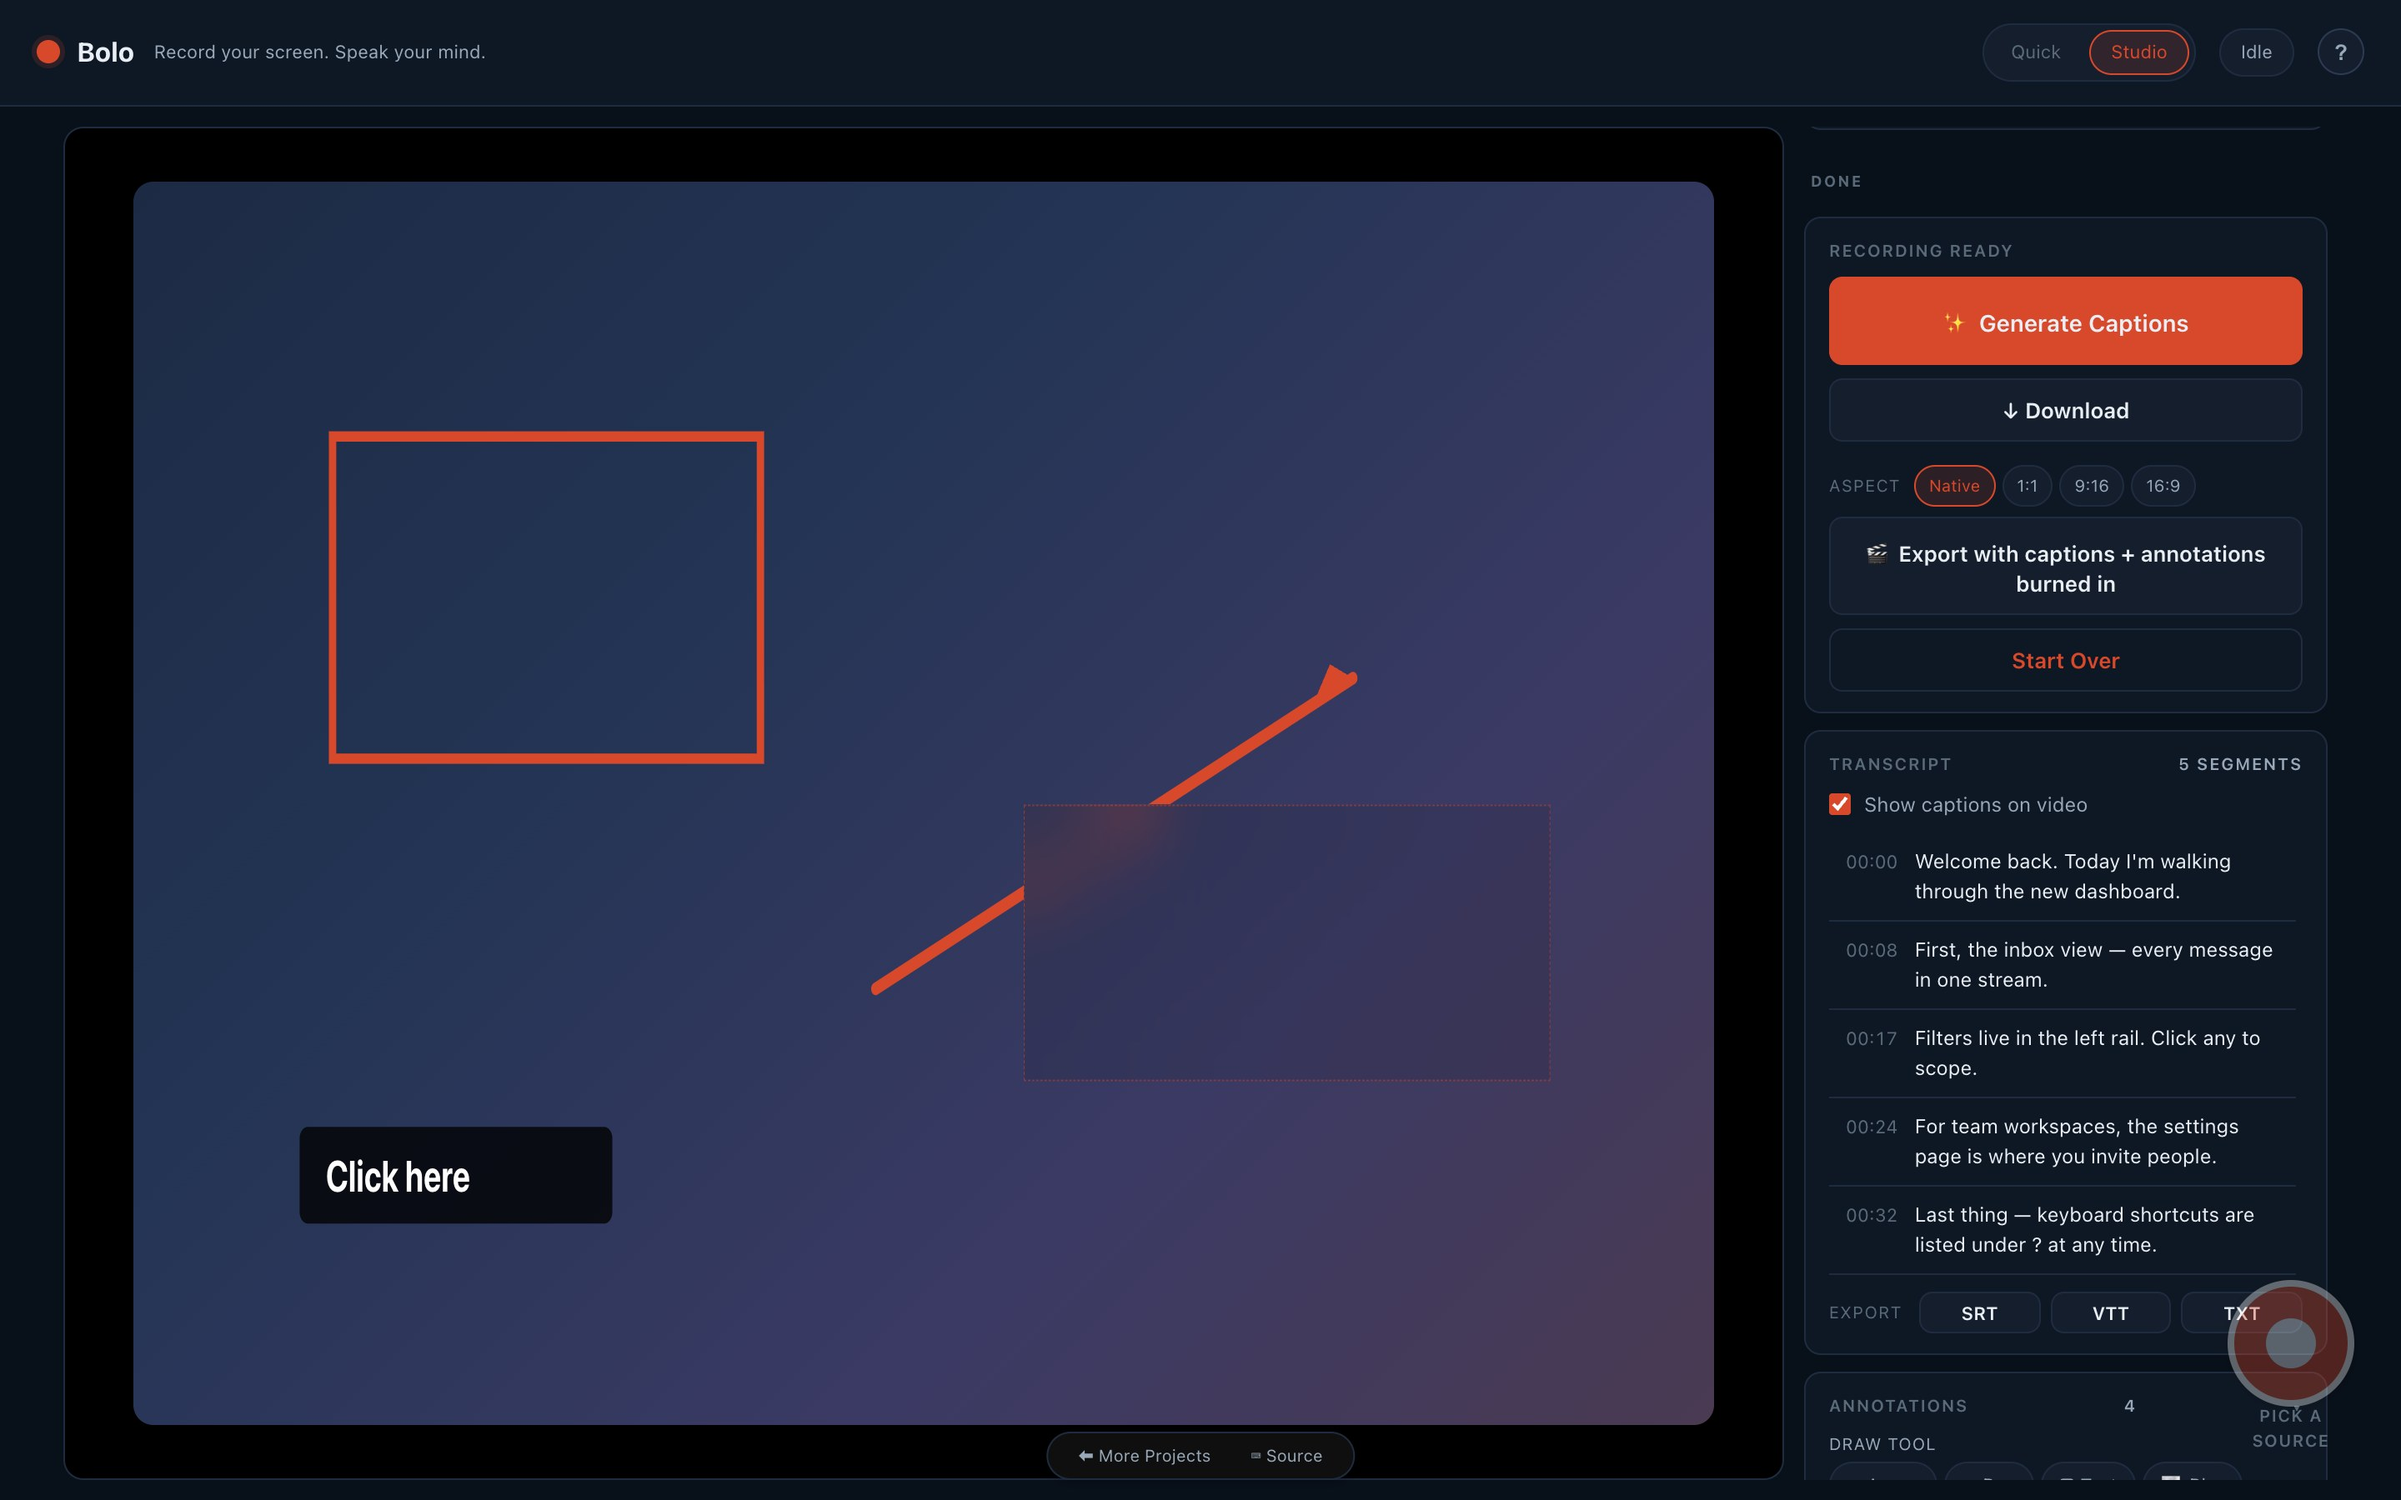
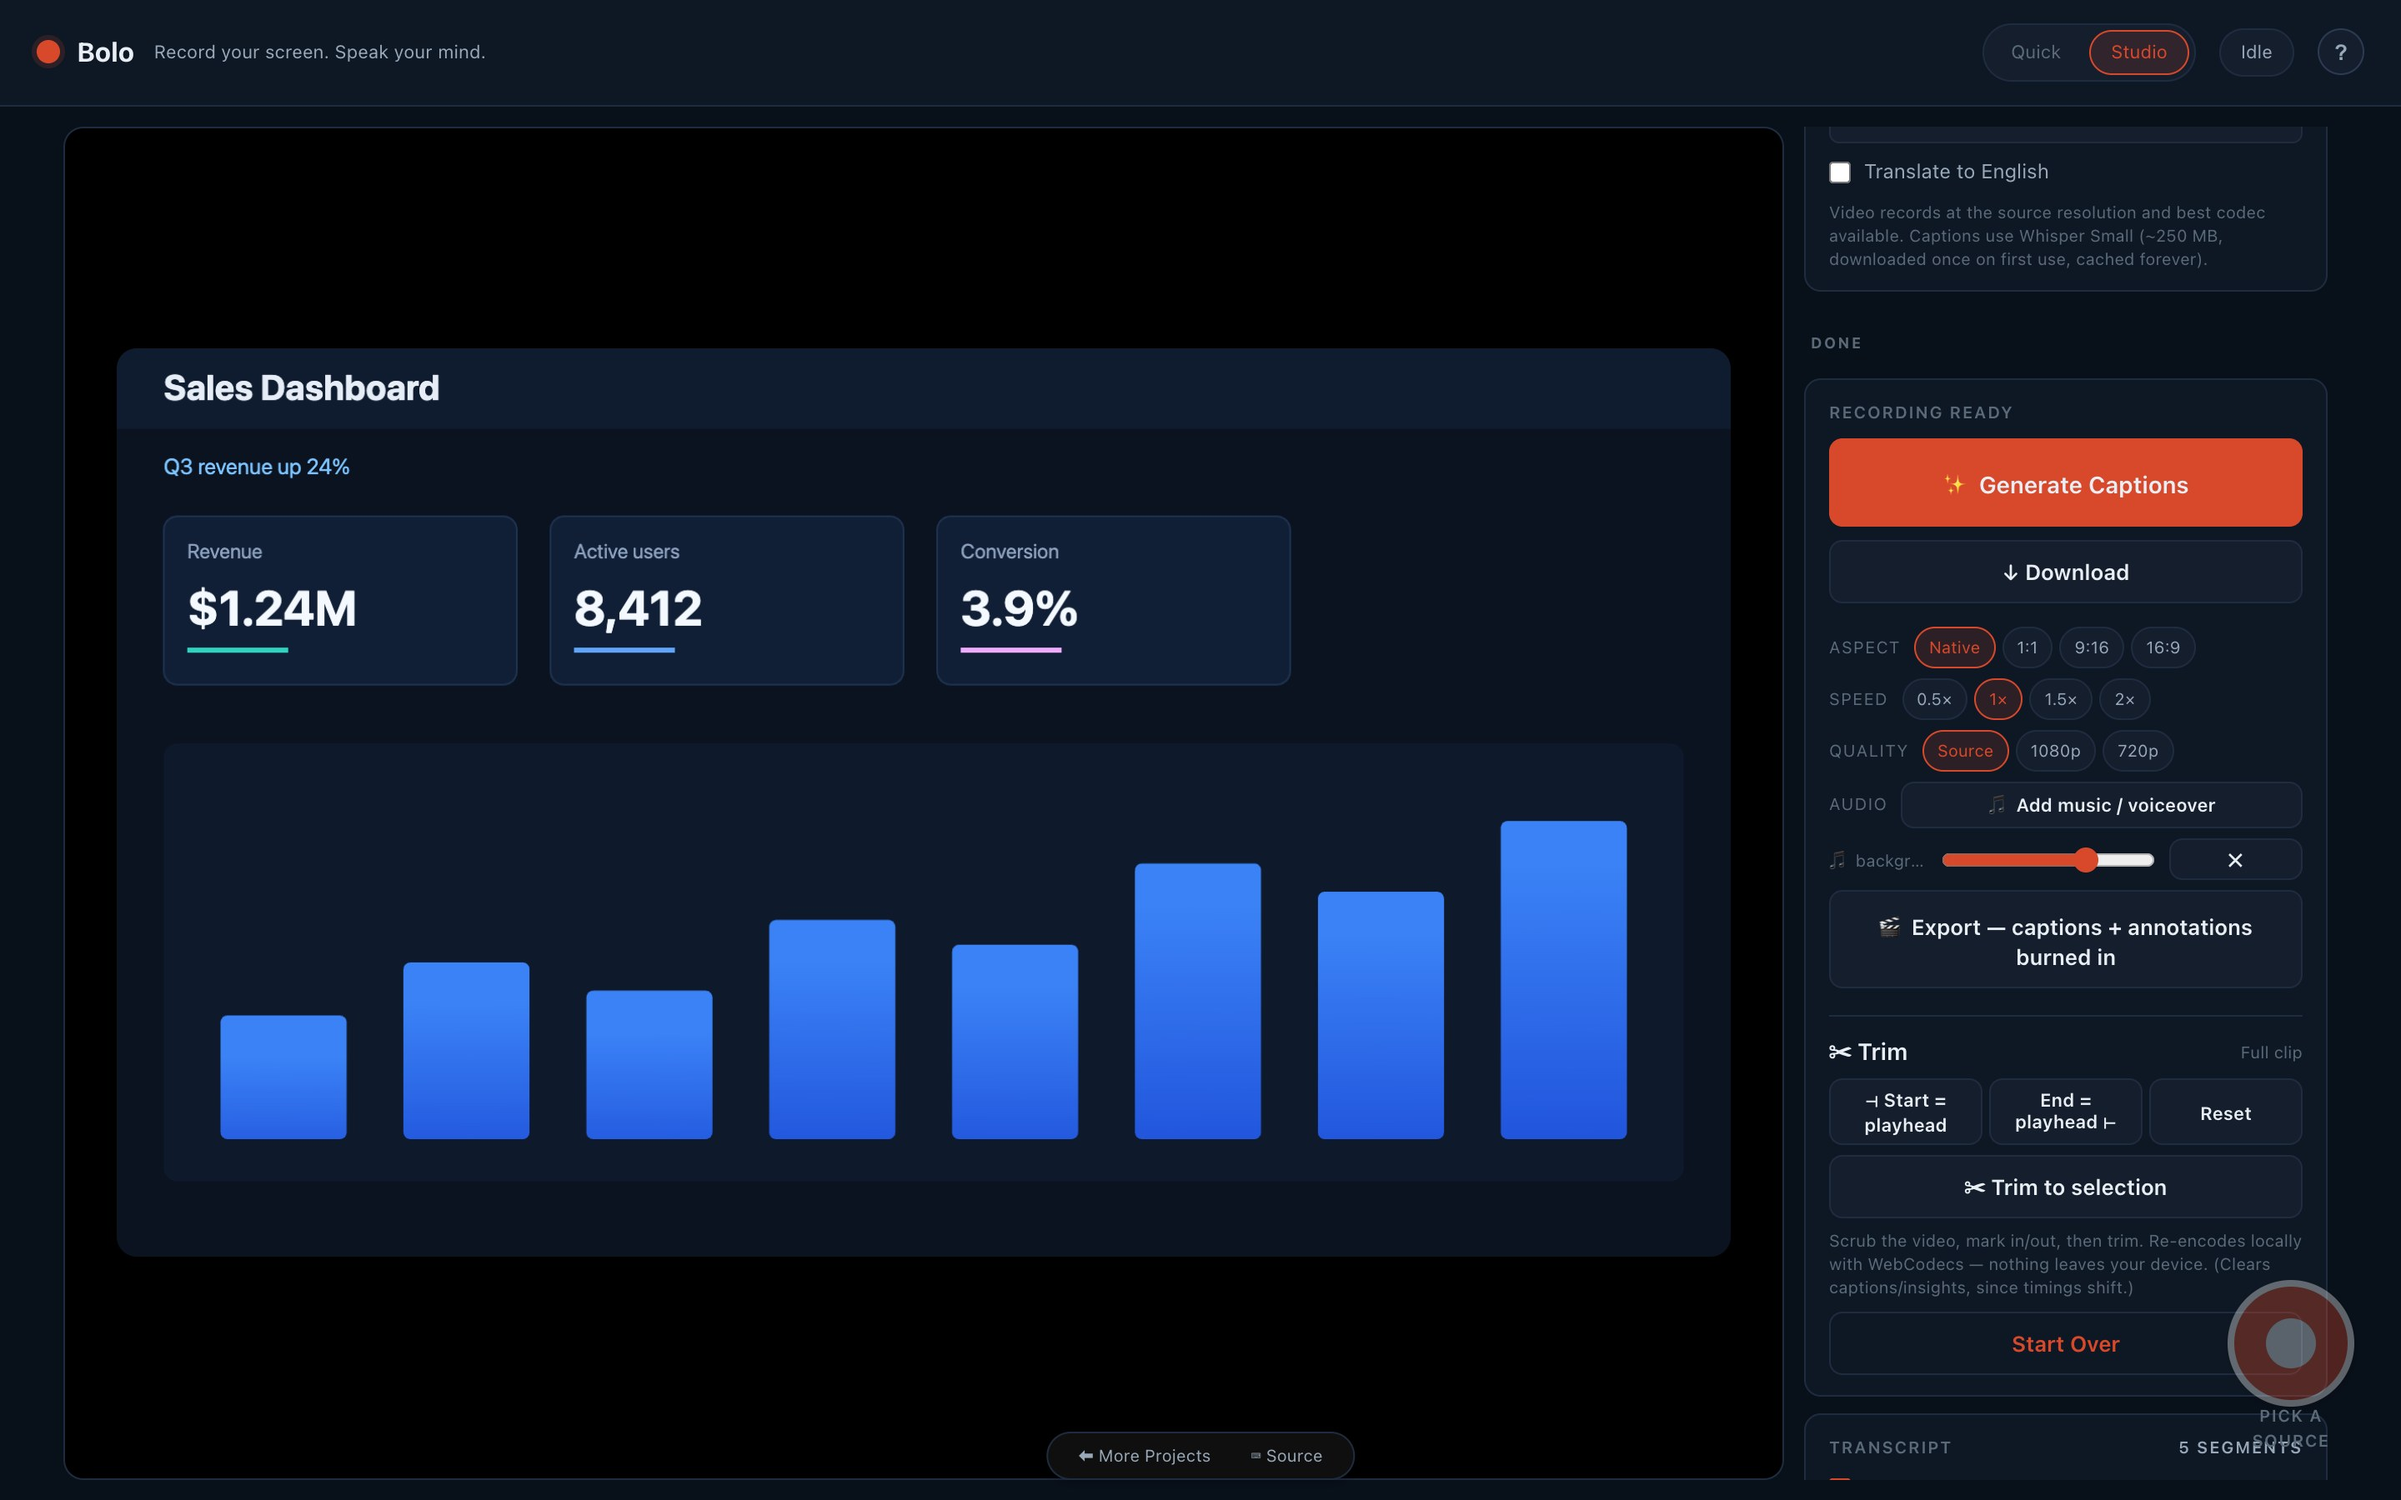
Add first-run guided tour + refresh export screenshot
- Guided tour: a spotlight walkthrough (ported from Slate's pattern) over
  the sources panel, Quick/Studio toggle, record button and help. Auto-shows
  once (localStorage bolo.v1.tour-complete), skippable, and replayable from
  the ? help modal via a new "Take the tour" button. Steps that aren't
  visible (Studio-only panels in Quick mode) are filtered out.
- Regenerated docs/screenshots/08-burn-in-export.jpg to show the new export
  panel (aspect + speed + quality + background audio) and updated the capture
  generator's step 8 to match.
- README + guide: document the tour and the new export controls.

Verified in-browser: tour auto-shows on first run (4 visible steps in Quick
mode), spotlight repositions per step, Finish sets the flag and it does not
re-show on reload, and ? -> Take the tour force-replays it. No console errors.

diff --git a/index.html b/index.html
@@ -934,6 +934,39 @@
   .stage-label:first-child { margin-top: 0; }
 
   .hidden { display: none !important; }
+
+  /* First-run guided tour — spotlight + step card (ported from Slate) */
+  .tour-layer { position: fixed; inset: 0; z-index: 4000; pointer-events: auto; }
+  .tour-spotlight {
+    position: fixed; z-index: 4001;
+    border: 2px solid var(--accent);
+    border-radius: 10px;
+    box-shadow: 0 0 0 4px var(--accent-dim), 0 0 0 9999px rgba(0,0,0,0.72);
+    pointer-events: none;
+    transition: top .28s ease, left .28s ease, width .28s ease, height .28s ease;
+  }
+  .tour-card {
+    position: fixed; z-index: 4002;
+    width: min(340px, calc(100vw - 24px));
+    padding: 20px;
+    border: 1px solid var(--border-2);
+    border-radius: 14px;
+    background: var(--bg-2);
+    color: var(--text);
+    box-shadow: 0 20px 48px rgba(0,0,0,0.6);
+  }
+  .tour-progress {
+    margin: 0 0 8px; color: var(--accent);
+    font-size: 11px; font-weight: 700; letter-spacing: 0.06em; text-transform: uppercase;
+  }
+  .tour-card h2 { margin: 0 0 8px; font-size: 17px; }
+  .tour-card p { margin: 0; color: var(--text-dim); font-size: 13px; line-height: 1.6; }
+  .tour-actions { display: flex; align-items: center; gap: 8px; margin-top: 18px; }
+  .tour-skip { margin-right: auto; }
+  @media (max-width: 520px) {
+    .tour-card { padding: 14px; }
+    .tour-actions { flex-wrap: wrap; }
+  }
 </style>
 </head>
 <body>
@@ -1282,6 +1315,7 @@
 
     <div class="btn-row">
       <span style="margin-right:auto; font-size:11px; color:var(--text-mute)">Bolo v1.1.0 · single HTML file</span>
+      <button class="btn" id="helpTour">Take the tour</button>
       <button class="btn btn-primary" id="helpClose">Got it</button>
     </div>
   </div>
@@ -4800,6 +4834,132 @@ opfsLoadAll().then(items => {
     renderHistory();
   }
 }).catch(() => {});
+
+// ---------- First-run guided tour (spotlight + step card) ----------
+const tour = (() => {
+  const TOUR_KEY = 'bolo.v1.tour-complete';
+  const STEPS = [
+    { target: '#panelSources', title: 'Pick what to capture',
+      body: 'Toggle Screen, Webcam and Mic here. Whatever you pick is composited live in this browser — nothing is uploaded, no account, no server.' },
+    { target: '#modeChips', title: 'Quick or Studio',
+      body: 'Quick is a minimal recorder. Switch to Studio for Looks, follow-cursor zoom, a dynamic webcam bubble, on-device captions & AI insights, annotations, and export with aspect / speed / quality / background audio.' },
+    { target: '#panelLook', title: 'Frame it',
+      body: 'Studio Looks add a background, padding and a gentle follow-cursor zoom — previewed live on the stage before you ever hit Record.' },
+    { target: '#fabRecord', title: 'Record',
+      body: 'A 3-2-1 countdown, then capture begins. Pause and stop from the floating bar — or from a tiny always-on-top window when you record another tab.' },
+    { target: '#helpBtn', title: 'Everything is here',
+      body: 'Reopen this button for keyboard shortcuts, the full guide, and to replay this tour whenever you like.' },
+  ];
+
+  let layer = null, stepIndex = 0, previousFocus = null, activeSteps = STEPS;
+  const clamp = (v, min, max) => Math.max(min, Math.min(max, v));
+
+  function targetIsVisible(step) {
+    const t = document.querySelector(step.target);
+    if (!t) return false;
+    const r = t.getBoundingClientRect(), st = getComputedStyle(t);
+    return r.width > 0 && r.height > 0 && st.display !== 'none' && st.visibility !== 'hidden';
+  }
+  function currentTarget() {
+    return document.querySelector(activeSteps[stepIndex].target) || document.body;
+  }
+  function positionTour() {
+    if (!layer) return;
+    const target = currentTarget();
+    target.scrollIntoView({ block: 'nearest', inline: 'nearest' });
+    const rect = target.getBoundingClientRect(), pad = 6;
+    const spot = layer.querySelector('.tour-spotlight');
+    spot.style.top = Math.max(4, rect.top - pad) + 'px';
+    spot.style.left = Math.max(4, rect.left - pad) + 'px';
+    spot.style.width = Math.max(24, Math.min(innerWidth - 8, rect.width + pad * 2)) + 'px';
+    spot.style.height = Math.max(24, Math.min(innerHeight - 8, rect.height + pad * 2)) + 'px';
+    const card = layer.querySelector('.tour-card'), cardRect = card.getBoundingClientRect();
+    const gap = 18, margin = 12; let top, left;
+    if (rect.bottom + gap + cardRect.height <= innerHeight - margin) {
+      top = rect.bottom + gap; left = rect.left + rect.width / 2 - cardRect.width / 2;
+    } else if (rect.top - gap - cardRect.height >= margin) {
+      top = rect.top - gap - cardRect.height; left = rect.left + rect.width / 2 - cardRect.width / 2;
+    } else if (rect.left - gap - cardRect.width >= margin) {
+      top = rect.top + rect.height / 2 - cardRect.height / 2; left = rect.left - gap - cardRect.width;
+    } else if (rect.right + gap + cardRect.width <= innerWidth - margin) {
+      top = rect.top + rect.height / 2 - cardRect.height / 2; left = rect.right + gap;
+    } else {
+      top = innerHeight - cardRect.height - margin; left = innerWidth / 2 - cardRect.width / 2;
+    }
+    card.style.top = clamp(top, margin, innerHeight - cardRect.height - margin) + 'px';
+    card.style.left = clamp(left, margin, innerWidth - cardRect.width - margin) + 'px';
+    card.style.visibility = 'visible';
+  }
+  function renderStep() {
+    if (!layer) return;
+    const step = activeSteps[stepIndex];
+    layer.querySelector('.tour-progress').textContent = 'Quick tour · ' + (stepIndex + 1) + ' of ' + activeSteps.length;
+    layer.querySelector('.tour-title').textContent = step.title;
+    layer.querySelector('.tour-body').textContent = step.body;
+    layer.querySelector('.tour-back').disabled = stepIndex === 0;
+    layer.querySelector('.tour-next').textContent = stepIndex === activeSteps.length - 1 ? 'Finish' : 'Next';
+    layer.querySelector('.tour-card').style.visibility = 'hidden';
+    requestAnimationFrame(() => { positionTour(); layer && layer.querySelector('.tour-next').focus(); });
+  }
+  function finish() { try { localStorage.setItem(TOUR_KEY, '1'); } catch(e) {} close(); }
+  function close() {
+    if (!layer) return;
+    const old = layer; layer = null;
+    window.removeEventListener('resize', positionTour);
+    document.removeEventListener('keydown', onKey, true);
+    old.remove();
+    if (previousFocus && previousFocus.isConnected) previousFocus.focus();
+    previousFocus = null;
+  }
+  function onKey(e) {
+    if (!layer) return;
+    e.stopPropagation();
+    if ((e.key === 'Enter' || e.key === ' ') && e.target instanceof Element && e.target.closest('.tour-actions button')) {
+      e.preventDefault(); e.target.click(); return;
+    }
+    if (e.key === 'Escape') { e.preventDefault(); finish(); return; }
+    if (e.key === 'ArrowRight') { e.preventDefault(); if (stepIndex < activeSteps.length - 1) { stepIndex++; renderStep(); } else finish(); return; }
+    if (e.key === 'ArrowLeft' && stepIndex > 0) { e.preventDefault(); stepIndex--; renderStep(); return; }
+  }
+  function show({ force = false } = {}) {
+    let seen = false; try { seen = !!localStorage.getItem(TOUR_KEY); } catch(e) {}
+    if (layer || (!force && seen)) return false;
+    previousFocus = document.activeElement;
+    stepIndex = 0;
+    activeSteps = STEPS.filter(targetIsVisible);
+    if (!activeSteps.length) return false;
+    layer = document.createElement('div');
+    layer.className = 'tour-layer';
+    layer.innerHTML = `
+      <div class="tour-spotlight" aria-hidden="true"></div>
+      <section class="tour-card" role="dialog" aria-modal="true" aria-labelledby="tour-title" aria-describedby="tour-body">
+        <div class="tour-progress"></div>
+        <h2 class="tour-title" id="tour-title"></h2>
+        <p class="tour-body" id="tour-body" aria-live="polite"></p>
+        <div class="tour-actions">
+          <button class="btn btn-sm tour-skip" type="button">Skip</button>
+          <button class="btn btn-sm tour-back" type="button">Back</button>
+          <button class="btn btn-sm btn-primary tour-next" type="button">Next</button>
+        </div>
+      </section>`;
+    document.body.appendChild(layer);
+    layer.querySelector('.tour-skip').addEventListener('click', finish);
+    layer.querySelector('.tour-back').addEventListener('click', () => { if (stepIndex > 0) { stepIndex--; renderStep(); } });
+    layer.querySelector('.tour-next').addEventListener('click', () => { if (stepIndex < activeSteps.length - 1) { stepIndex++; renderStep(); } else finish(); });
+    window.addEventListener('resize', positionTour);
+    document.addEventListener('keydown', onKey, true);
+    renderStep();
+    return true;
+  }
+  return { show };
+})();
+
+$('helpTour').addEventListener('click', () => {
+  $('helpModal').classList.remove('on');
+  setTimeout(() => tour.show({ force: true }), 60);
+});
+// First run: offer the tour once the sidebar targets are laid out.
+setTimeout(() => tour.show(), 600);
 
 // Feature-detect support
 if (!navigator.mediaDevices || !navigator.mediaDevices.getDisplayMedia) {

diff --git a/docs/guide.html b/docs/guide.html
@@ -295,6 +295,7 @@
     <figcaption>The idle state, fresh load. Pick your sources on the right to start.</figcaption>
   </figure>
   <p>The header chip pair at the top right is the <a href="#quick-studio">mode toggle</a>. Bolo opens in <span class="ink">Quick mode</span> by default — the simplest possible recorder. Click <span class="ink">Studio</span> to unlock Looks, AI insights, annotations, and burn-in export.</p>
+  <p>On your first visit a short <span class="ink">guided tour</span> spotlights the sources panel, the mode toggle, the record button and the help button. Skip it anytime, and replay it whenever you like from <span class="ink">?</span> → <span class="ink">Take the tour</span>.</p>
 </section>
 
 <section id="quick-studio">

diff --git a/README.md b/README.md
@@ -23,6 +23,7 @@ Bolo is a single-HTML-file screen recorder. It captures screen + webcam + mic, t
 - **SRT / VTT / TXT subtitle export**. Download bundles a same-name `.srt` automatically so VLC, IINA and mpv auto-load it. For caption burn-in, run `ffmpeg -i in.webm -vf subtitles=in.srt out.mp4` at the shell (Bolo's in-browser burn-in is deferred — see *Known limitations*).
 - **Persistent recordings gallery** — recent captures live in OPFS (browser-private filesystem), survive reloads, 500 MB cap with FIFO eviction. Transcripts and AI insights persist alongside the blob.
 - **Cross-tab control** — recording another tab? Bolo opens a tiny always-on-top Document Picture-in-Picture window with timer + pause + stop, so you can control it from anywhere.
+- **First-run guided tour** — a spotlight walkthrough of sources, the Quick/Studio toggle, record, and help. Shows once, skippable, replayable anytime from **?** → *Take the tour*. State is a single localStorage flag; nothing tracked.
 - **3-2-1 countdown**, pause/resume, floating recording control bar, keyboard shortcuts, self-capture detection.
 - **File System Access API** — write directly to disk on Chromium, falls back to download elsewhere.
 
